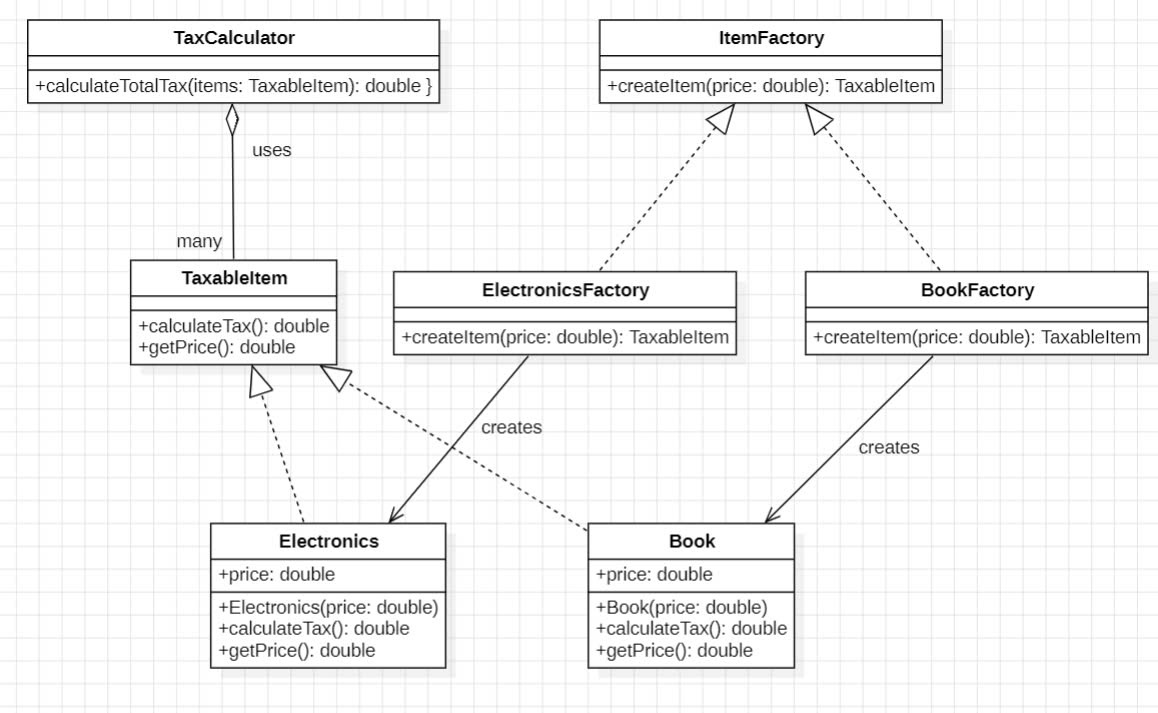
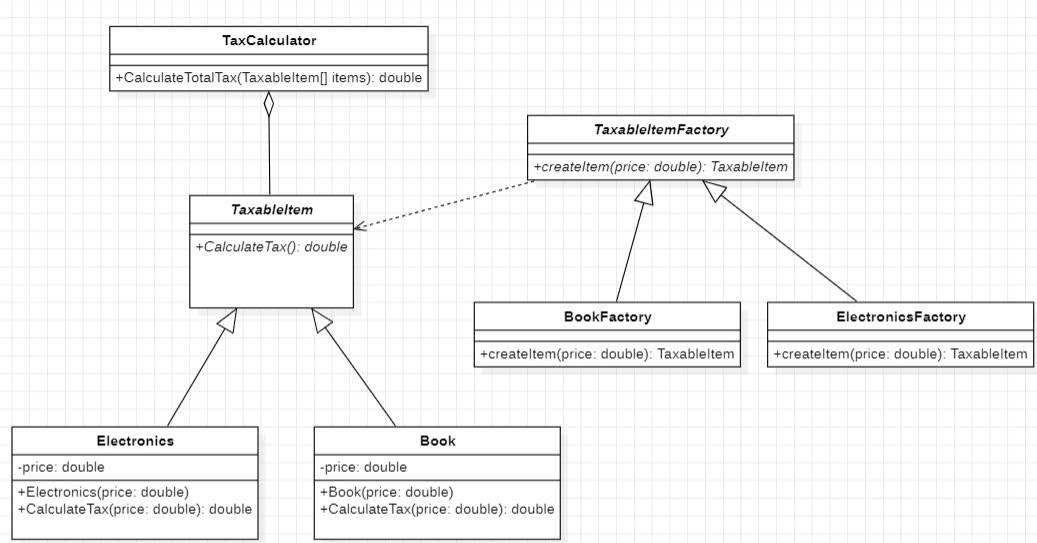
Bai 3

diff --git a/STT64_2251172548_NguyenAnhTuan_BaiTap4/Bai3/BaiTap3/src/TinhThue/Main.java b/STT64_2251172548_NguyenAnhTuan_BaiTap4/Bai3/BaiTap3/src/TinhThue/Main.java
@@ -3,31 +3,22 @@ package TinhThue;
 public class Main {
     public static void main(String[] args) {
         
-        ItemFactory bookFactory = new BookFactory();
-        ItemFactory electronicsFactory = new ElectronicsFactory();
+        BookFactory bookFactory = new BookFactory();
+        ElectronicsFactory electronicsFactory = new ElectronicsFactory();
 
         
-        TaxableItem[] items = new TaxableItem[] {
-            bookFactory.createItem(60.0),         
-            bookFactory.createItem(90.0),        
-            electronicsFactory.createItem(150.0), 
-            electronicsFactory.createItem(250.0)  
-        };
+        TaxableItem book = bookFactory.createItem(100.0); 
+        TaxableItem electronics = electronicsFactory.createItem(200.0); 
+
+        
+        TaxableItem[] items = {book, electronics};
 
        
         TaxCalculator calculator = new TaxCalculator();
-        double totalTax = calculator.calculateTotalTax(items);
+        double totalTax = calculator.CalculateTotalTax(items);
 
-       
-     
-        System.out.println("Danh sách mặt hàng và thuế:");
-        for (int i = 0; i < items.length; i++) {
-            String itemType = items[i] instanceof Book ? "Sách" : "Thiết bị điện tử";
-            System.out.printf("- Mặt hàng %d (%s): Giá = %.2f, Thuế = %.2f%n",
-                i + 1, itemType, items[i].getPrice(), items[i].calculateTax());
-        }
-
-        System.out.printf("%nTổng thuế phải nộp: %.2f%n", totalTax);
+        
+        System.out.println("Tổng Thuế: " + totalTax );
         
     }
 }

diff --git a/STT64_2251172548_NguyenAnhTuan_BaiTap4/Bai3/BaiTap3/src/TinhThue/Electronics.java b/STT64_2251172548_NguyenAnhTuan_BaiTap4/Bai3/BaiTap3/src/TinhThue/Electronics.java
@@ -1,19 +1,12 @@
 package TinhThue;
 
-public class Electronics implements TaxableItem {
-    private double price;
-
+public class Electronics extends TaxableItemImpl {
     public Electronics(double price) {
-        this.price = price;
+        super(price);
     }
 
     @Override
-    public double calculateTax() {
-        return 0.1 * price;
-    }
-
-    @Override
-    public double getPrice() {
-        return price;
+    public double CalculateTax() {
+        return price * 0.1;
     }
 }

diff --git a/STT64_2251172548_NguyenAnhTuan_BaiTap4/Bai3/BaiTap3/src/TinhThue/Book.java b/STT64_2251172548_NguyenAnhTuan_BaiTap4/Bai3/BaiTap3/src/TinhThue/Book.java
@@ -1,19 +1,12 @@
 package TinhThue;
 
-public class Book implements TaxableItem {
-    private double price;
-
+public class Book extends TaxableItemImpl {
     public Book(double price) {
-        this.price = price;
+        super(price);
     }
 
     @Override
-    public double calculateTax() {
-        return 0.05 * price;
-    }
-
-    @Override
-    public double getPrice() {
-        return price;
+    public double CalculateTax() {
+        return price * 0.05; 
     }
 }

diff --git a/STT64_2251172548_NguyenAnhTuan_BaiTap4/Bai3/BaiTap3/src/TinhThue/TaxCalculator.java b/STT64_2251172548_NguyenAnhTuan_BaiTap4/Bai3/BaiTap3/src/TinhThue/TaxCalculator.java
@@ -1,10 +1,10 @@
 package TinhThue;
 
 public class TaxCalculator {
-    public double calculateTotalTax(TaxableItem[] items) {
+    public double CalculateTotalTax(TaxableItem[] items) {
         double totalTax = 0.0;
         for (TaxableItem item : items) {
-            totalTax += item.calculateTax();
+            totalTax += item.CalculateTax();
         }
         return totalTax;
     }

diff --git a/STT64_2251172548_NguyenAnhTuan_BaiTap4/Bai3/BaiTap3/src/TinhThue/TaxableItemFactory.java b/STT64_2251172548_NguyenAnhTuan_BaiTap4/Bai3/BaiTap3/src/TinhThue/TaxableItemFactory.java
@@ -1,0 +1,12 @@
+package TinhThue;
+
+public class TaxableItemFactory {
+    public TaxableItem createItem(double price) {
+        return new TaxableItemImpl(price) {
+            @Override
+            public double CalculateTax() {
+                return 0.0;
+            }
+        };
+    }
+}

diff --git a/STT64_2251172548_NguyenAnhTuan_BaiTap4/Bai3/BaiTap3/src/TinhThue/TaxableItemImpl.java b/STT64_2251172548_NguyenAnhTuan_BaiTap4/Bai3/BaiTap3/src/TinhThue/TaxableItemImpl.java
@@ -1,0 +1,13 @@
+package TinhThue;
+
+public abstract class TaxableItemImpl extends TaxableItem {
+    protected double price;
+
+    public TaxableItemImpl(double price) {
+        this.price = price;
+    }
+
+    public double getPrice() {
+        return price;
+    }
+}

diff --git a/STT64_2251172548_NguyenAnhTuan_BaiTap4/Bai3/BaiTap3/src/TinhThue/ElectronicsFactory.java b/STT64_2251172548_NguyenAnhTuan_BaiTap4/Bai3/BaiTap3/src/TinhThue/ElectronicsFactory.java
@@ -1,7 +1,6 @@
 package TinhThue;
 
-public class ElectronicsFactory implements ItemFactory {
-    @Override
+public class ElectronicsFactory {
     public TaxableItem createItem(double price) {
         return new Electronics(price);
     }

diff --git a/STT64_2251172548_NguyenAnhTuan_BaiTap4/Bai3/BaiTap3/src/TinhThue/BookFactory.java b/STT64_2251172548_NguyenAnhTuan_BaiTap4/Bai3/BaiTap3/src/TinhThue/BookFactory.java
@@ -1,7 +1,6 @@
 package TinhThue;
 
-public class BookFactory implements ItemFactory {
-    @Override
+public class BookFactory {
     public TaxableItem createItem(double price) {
         return new Book(price);
     }

diff --git a/STT64_2251172548_NguyenAnhTuan_BaiTap4/Bai3/BaiTap3/src/TinhThue/TaxableItem.java b/STT64_2251172548_NguyenAnhTuan_BaiTap4/Bai3/BaiTap3/src/TinhThue/TaxableItem.java
@@ -1,6 +1,5 @@
 package TinhThue;
 
-interface TaxableItem {
-    double calculateTax();
-    double getPrice();
+public abstract class TaxableItem {
+    public abstract double CalculateTax();
 }
